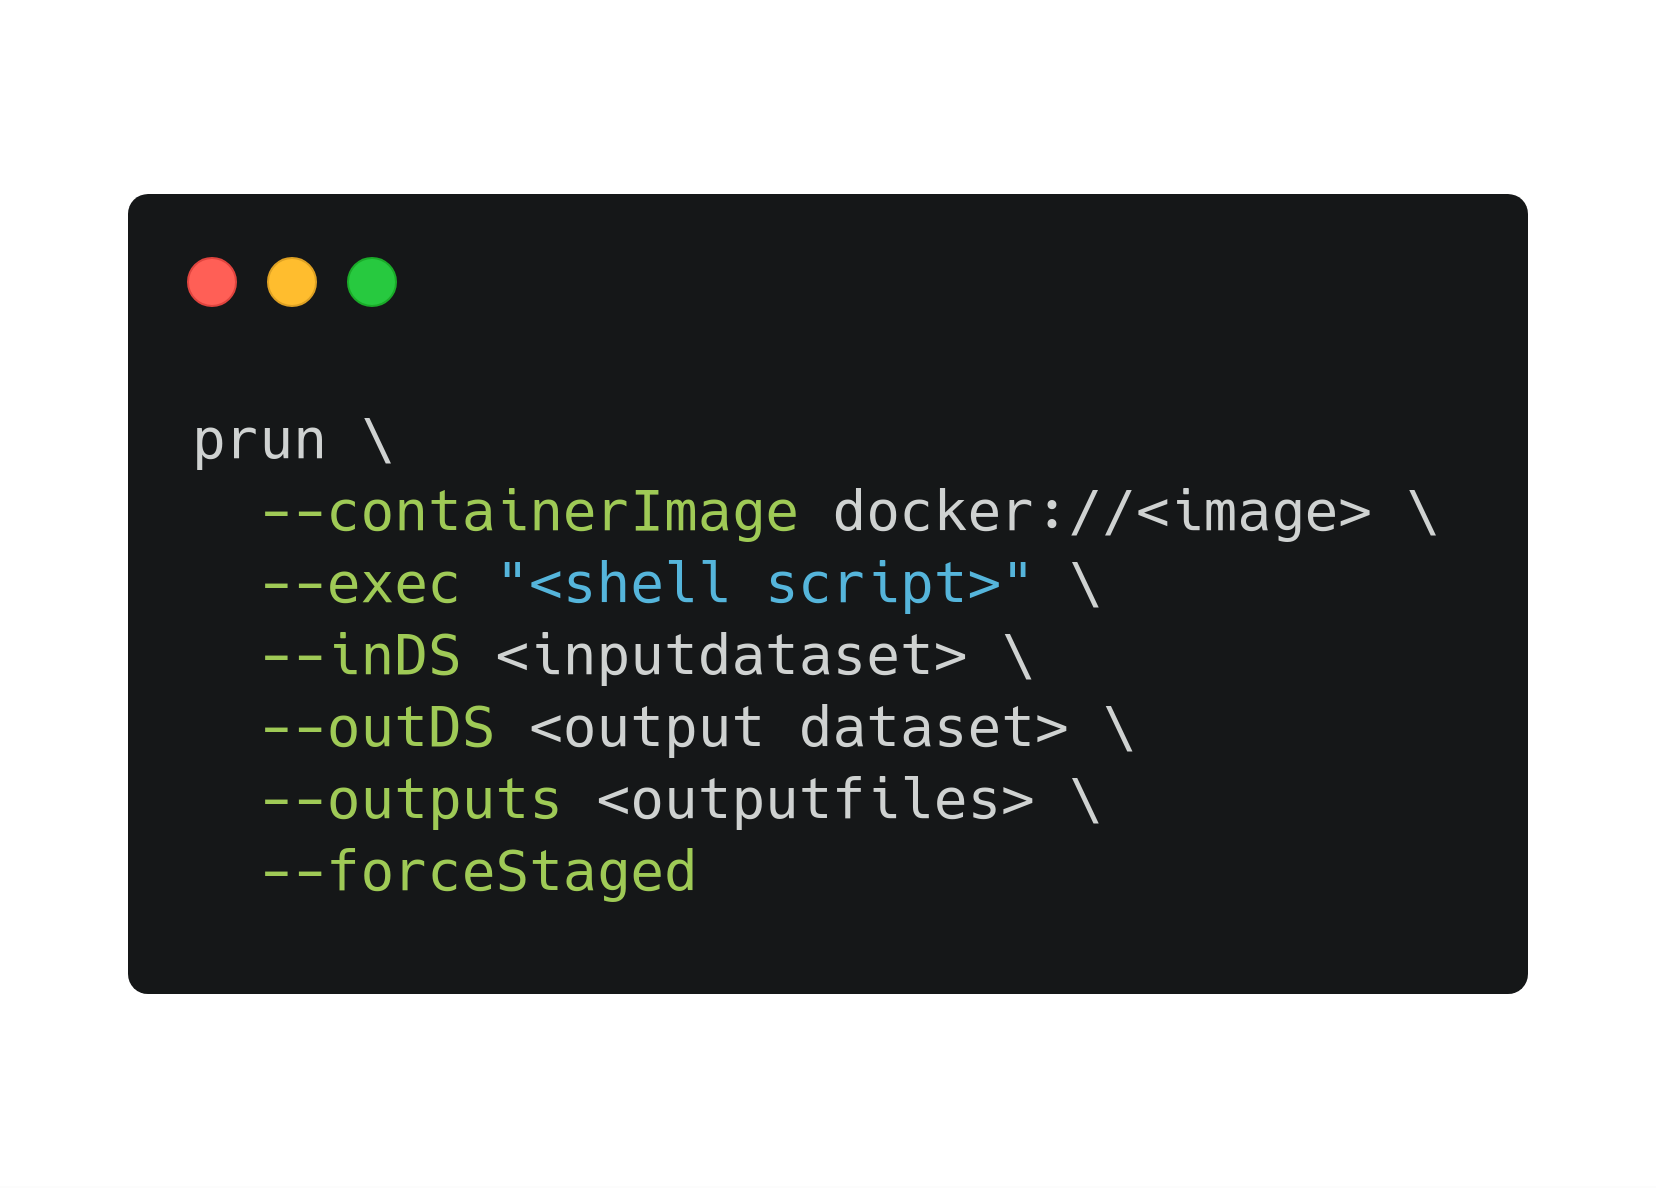
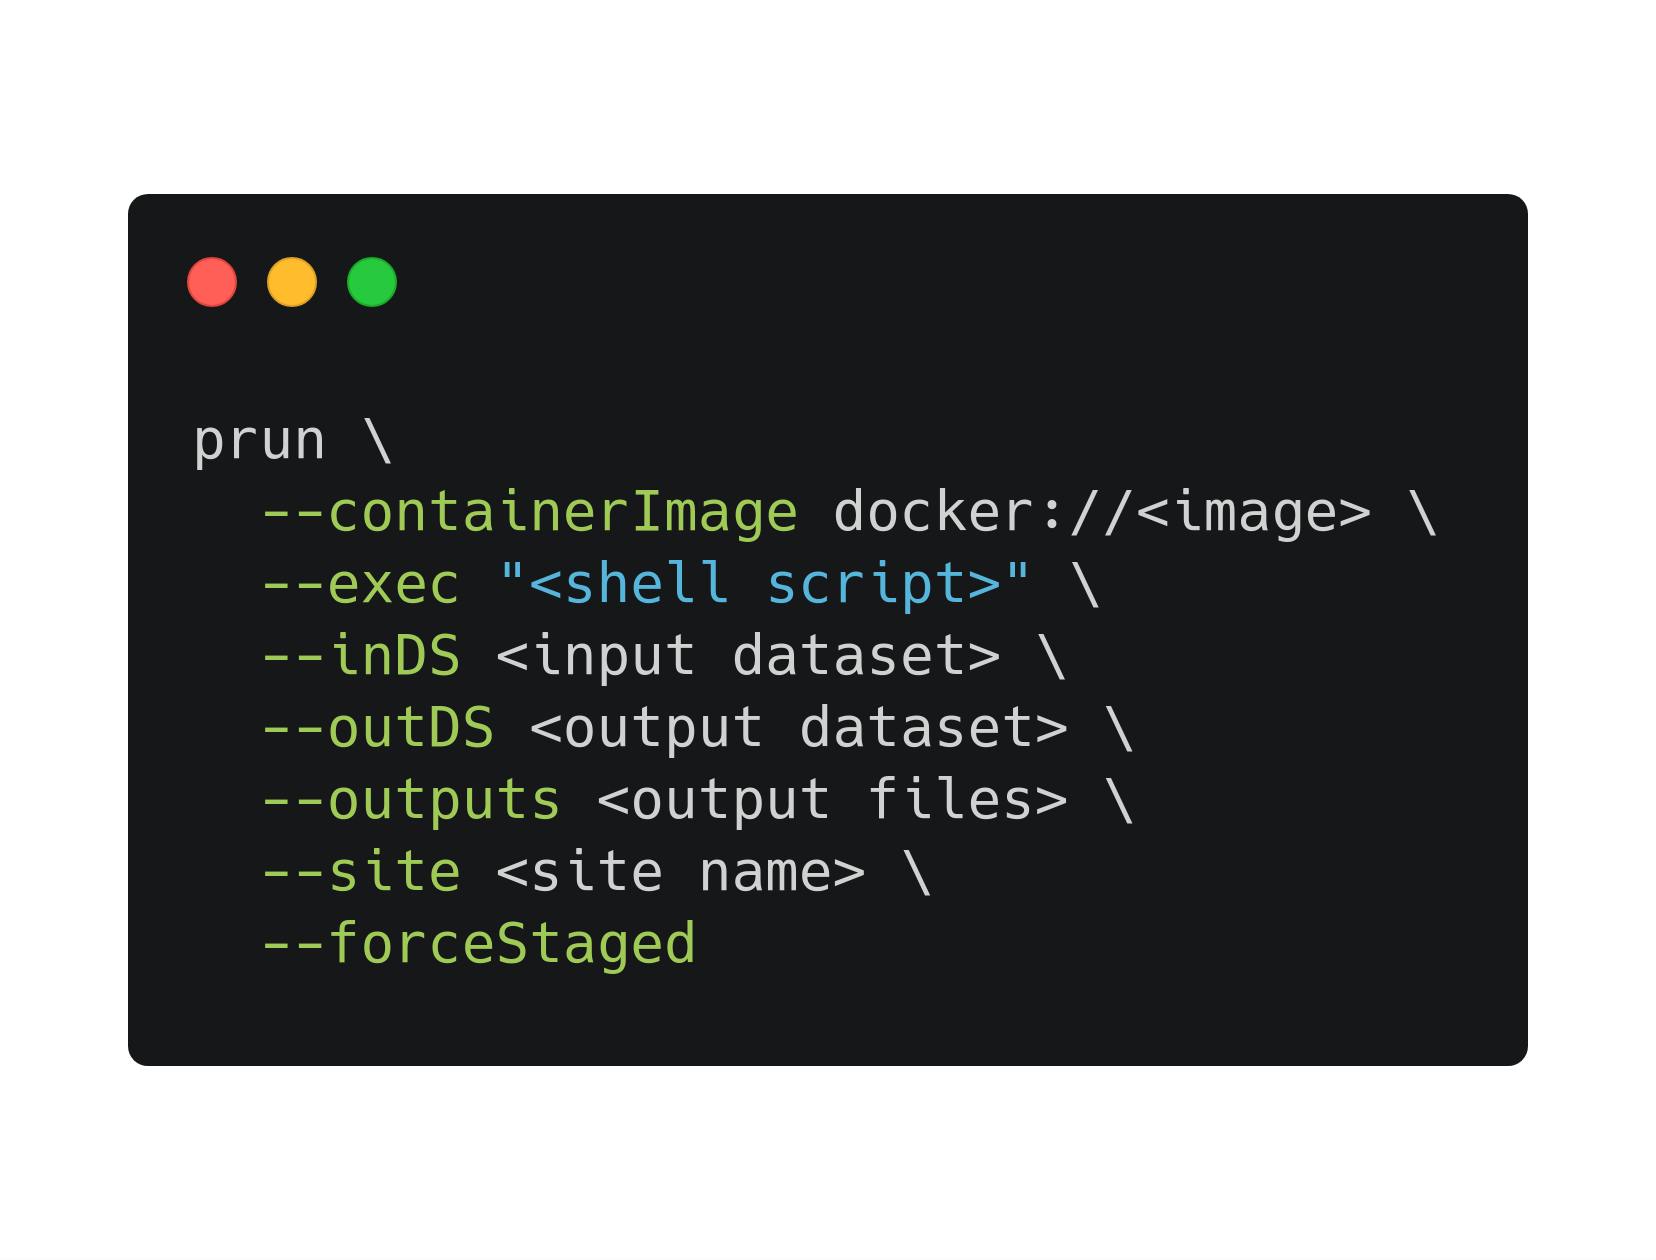
Update draft for presentation (#5)
* Revise draft for talk
* Add pcontainer CLI image
* Add empty unicode characters for spacing
* Add proper scaling of collaborators

diff --git a/talk.md b/talk.md
@@ -11,7 +11,7 @@ Matthew Feickert<br>
 
 April 16th, 2019
 
----
+<!-- ---
 # Talk Notes for Lukas and Dan
 
 <br><br>
@@ -23,29 +23,23 @@ April 16th, 2019
 - Talk Goals:
    - Motivate and introduce applications of containers on GRID for ML
    - 1st half: Lukas et.al work in Containers + GRID
-   - 2nd half: Matthew and Dan work on AML base images
+   - 2nd half: Matthew and Dan work on AML base images -->
 
 ---
 # Collaborators
 
-<br><br>
-
 .grid[
 .kol-1-2.center[
 <!-- .circle.width-80[![Lukas](https://avatars1.githubusercontent.com/u/2318083?s=400&v=4)] -->
-.center.circle.width-80[![Lukas](figures/collaborators/heinrich.jpg)]
+.center.circle.width-100[![Lukas](figures/collaborators/heinrich.jpg)]
 
 [Lukas Heinrich](https://github.com/lukasheinrich)
 
-NYU
+CERN
 ]
-
 <!-- https://www.weizmann.ac.il/conferences/SRitp/Summer2017/sites/conferences.SRitp.Summer2017/files/styles/gallery_full_image/public/dsc07727.jpg?itok=Z6VbTmy9 -->
 .kol-1-2.center[
-.center.circle.width-70[![Dan](figures/collaborators/guest.png)]
-<!-- .circle.width-80[![Dan](https://avatars3.githubusercontent.com/u/1979581?s=400&v=4)] -->
-<!-- .center.circle.width-80[![Dan](figures/collaborators/guest_2.png)] -->
-<!-- .center.circle.width-70[![Dan](figures/collaborators/guest_3.png)] -->
+.center.circle.width-90[![Dan](figures/collaborators/guest.png)]
 
 [Dan Guest](https://github.com/dguest)
 
@@ -64,7 +58,7 @@ UC Irvine
 <br>
 - Highly parallelizable
 - Good for distributed, bulk computation
-- Worldwide LHC Computing Grid provides global infrastructure
+- Worldwide LHC Computing Grid (GRID) provides global infrastructure
    - Storage and compute
    - _Code goes to where the data is_
 ]
@@ -79,34 +73,32 @@ UC Irvine
 # Problem: Software Distribution
 
 - Need to get the _runtime environment_ to data location
-- Breakdown of typical software stack  
 
-.width-100[![software_stack](figures/software_stack.png)]
+.center.width-100[![software_stack](figures/software_stack.png)]
 
 - Relies on three parties to work (sys admins, experiments, users)
 - Great for distributing crucial software, not for experimenting with new tools
+- User only controls their code, upstream changes break reproducibility
 
 ---
 # Containers
 .grid[
 .kol-2-3[
-<br>
-- ML needs are challenge for current system
+<!-- <br> -->
+- _Machine Learning_ needs are challenge for current system
    - moves fast
    - experiments with bleeding edge tools
    - non-traditional HEP stack developed by industry
-- Idea: Distribute software stack with .blue[containers]
+- Idea: Distribute software stack with _containers_
    - let the user assemble the full stack and optimize GRID for running containers
+   - Host can be greatly simplified to core OS to run containers
 ]
 .kol-1-3.center[
 .center.width-50[![Docker](https://www.linuxjournal.com/sites/default/files/styles/max_650x650/public/u%5Buid%5D/12282f3.png)]
-<!-- .width-40[![Tensorflow](figures/logos/Tensorflow_logo.svg)] -->
 
 .center.width-50[![Singularity](https://singularity.lbl.gov/images/logo/logo.svg)]
-<!-- .width-100[![PyTorch](figures/logos/pytorch-logo-dark.svg)] -->
 ]
 ]
-
 .center.width-100[![container_view](figures/container_view.png)]
 .center[Docker Image (think: executable filesystem snapshot)]
 
@@ -117,53 +109,47 @@ UC Irvine
 - ML applications currently one area that can realistically and usefully utilize hardware accelerators (GPUs)
 - New HPC machines coming online ability to support HEP workloads
 - Use of GPU requires _custom compiled software_
-   - Example. TensorFlow GPU with CUDA
+   - Example: TensorFlow GPU with CUDA
 - With containers this is plug and play compute!
 
 .center.width-100[![container_with_GPU](figures/container_with_GPU.png)]
 
 ---
-# Containers for Physics
+# Containers for HEPML
 
-.grid[
-.kol-1-2[
 - With containers can run large-scale jobs on WLCG infrastructure
    - hyperparameter scans
    - flavour tagging retraining
 
-<br>
-
+.grid[
+.kol-2-3[
 .center.width-100[![hyperparameter_ROC](figures/hyperparameter_ROC.png)]
-.left[Flavour taggigng ROC for hyperpameter scans [[A. C. Forti, L. Heinrich, M. Guth, ACAT 2019](https://cds.cern.ch/record/2665661?ln=en)]]
+.left[Flavour tagging ROC for hyperpameter scans <br>[[A. C. Forti, L. Heinrich, M. Guth, ACAT 2019](https://cds.cern.ch/record/2665661?ln=en)]]
 ]
-.kol-1-2[
-.center.width-90[![Lukas_tweet](figures/Lukas_tweet.png)]
-.center[[@lukasheinrich_](https://twitter.com/lukasheinrich_/status/1066055036197892098/photo/1)]
+.kol-1-3[
+.center.width-110[[![Lukas_tweet](figures/Lukas_tweet.png)](https://twitter.com/lukasheinrich_/status/1066055036197892098/photo/1)]
 ]
 ]
 
 ---
-# Containers for Physics
+# Containers for HEPML
 
 <br>
 
 .center.width-100[![btagging_GRID_job](figures/btagging_GRID_job.jpg)]
-.center[Flavour tagging hyperpameters scans on the GRID in container]
-
+.center[Flavour tagging hyperpameters scans on the GRID with containers]
 <br>
-
 .center.width-90[![btagging_prun_command](figures/btagging_prun_command.jpg)]
 .center[Submitted to GPU site at Manchester]
 
 <!-- https://indico.cern.ch/event/708041/contributions/3276174/attachments/1810633/2956920/ATL-SOFT-SLIDE-2019-073.pdf#page=13 -->
-<!-- https://carbon.now.sh/?bg=rgba(255%2C255%2C255%2C1)&t=seti&wt=none&l=application%2Fx-sh&ds=false&dsyoff=20px&dsblur=68px&wc=true&wa=true&pv=48px&ph=32px&ln=false&fm=Hack&fs=14px&lh=133%25&si=false&code=prun%2520%255C%250A%2520%2520--containerImage%2520docker%253A%252F%252F%253Cimage%253E%2520%255C%250A%2520%2520--exec%2520%2522%253Cshell%2520script%253E%2522%2520%255C%250A%2520%2520--inDS%2520%253Cinputdataset%253E%2520%255C%250A%2520%2520--outDS%2520%253Coutput%2520dataset%253E%2520%255C%250A%2520%2520--outputs%2520%253Coutputfiles%253E%2520%255C%250A%2520%2520--forceStaged&es=4x&wm=false -->
+<!-- https://carbon.now.sh/?bg=rgba(255%2C255%2C255%2C1)&t=seti&wt=none&l=application%2Fx-sh&ds=false&dsyoff=20px&dsblur=68px&wc=true&wa=true&pv=48px&ph=32px&ln=false&fm=Hack&fs=14px&lh=133%25&si=false&es=4x&wm=false&code=prun%2520%255C%250A%2520%2520--containerImage%2520docker%253A%252F%252F%253Cimage%253E%2520%255C%250A%2520%2520--exec%2520%2522%253Cshell%2520script%253E%2522%2520%255C%250A%2520%2520--inDS%2520%253Cinput%2520dataset%253E%2520%255C%250A%2520%2520--outDS%2520%253Coutput%2520dataset%253E%2520%255C%250A%2520%2520--outputs%2520%253Coutput%2520files%253E%2520%255C%250A%2520%2520--site%2520%253Csite%2520name%253E%2520%255C%250A%2520%2520--forceStaged -->
 ---
 # User Interface
 
 Integrated into main command line interface for GRID submission (PanDA):
 .center.width-80[![user_interface](figures/carbon_user_interface.png)]
-
-Future: dedicated _pcontainer_ CLI (drop all software related flags)
+In development/testing: dedicated _pcontainer_ CLI (drop all software related flags)
 
 ---
 # Machine Learning Base Images
@@ -175,18 +161,17 @@ Future: dedicated _pcontainer_ CLI (drop all software related flags)
 .center.width-100[![ML_Docker](figures/ML_Docker.jpg)]
 ]
 .kol-2-3[
-- ML base images
+- [ML base images](https://hub.docker.com/r/atlasml/ml-base)
    - OS flavors
       - Ubutnu 18.04
       - CentOS 7
-   - Goal: To provide _modern Pythonic_ machine learning _stack, tools, environment_
-- ATLAS ML base images
+   - Goal: To provide _modern Pythonic_ machine learning stack, tools, environment
+- [ATLAS ML base images](https://hub.docker.com/r/atlasml/atlasml-base)
    - Copying ATLAS Software Infrastructure Team to make stack of images
       - ATLAS OS (CentOS 7)
       - AnalysisBase (CentOS 7)
       - ATLAS ML base (CentOS 7)
    - Goal: Provide AnalysisBase and ATLAS tools along _with ML base_
-<!-- - _Singularity compatible_ mount points for _GRID_ -->
 ]
 ]
 - _Singularity compatible_ mount points for _GRID_
@@ -197,15 +182,15 @@ Future: dedicated _pcontainer_ CLI (drop all software related flags)
 
 .grid[
 .kol-1-2.center[
-.center.width-100[![AML_docker_repo](figures/AML_docker_repo.png)]
+.center.width-100[[![AML_docker_repo](figures/AML_docker_repo.png)](https://gitlab.cern.ch/aml/containers/docker)]
 .center[[Dockerfiles versioned on GitLab](https://gitlab.cern.ch/aml/containers/docker)...]
 ]
 .kol-1-2.center[
-.center.width-80[![AML_DockerHub](figures/AML_DockerHub.png)]
+.center.width-80[[![AML_DockerHub](figures/AML_DockerHub.png)](https://hub.docker.com/u/atlasml)]
 .center[...and [deployed to Docker Hub](https://hub.docker.com/u/atlasml)]
 ]
 ]
-.center.width-50[![CI_pipeline](figures/CI_pipeline.png)]
+.center.width-40[[![CI_pipeline](figures/CI_pipeline.png)](https://gitlab.cern.ch/aml/containers/docker/pipelines)]
 .center[...[built by CI](https://gitlab.cern.ch/aml/containers/docker/pipelines)...]
 
 <!-- ---
@@ -230,19 +215,21 @@ Future: dedicated _pcontainer_ CLI (drop all software related flags)
 
 ---
 # Supports Interactive Sessions
-.center.width-80[![jupyter_example](figures/jupyter_example.png)]
+.center.width-80[[![jupyter_example](figures/jupyter_example.png)](https://gitlab.cern.ch/aml/containers/docker#run-a-jupyter-server-and-train-a-nn-with-tensorflow)]
 
 ---
-# Upcoming: GPU optimized images
+# Upcoming: optimized images
 
 .grid[
 .kol-1-2[
-<br><br>
-<br><br>
+## GPU
 - Images with CUDA/cuDNN support for GPU acceleration
 - GPU support for TensorFlow and PyTorch
+
+## Size
 - Slimmed and specialized base images for size optimization
    - Example: Don't distribute Jupyter if only want to train models on GRID
+- In some cases can experiment with Alpine images to drop MBs of size
 ]
 .kol-1-2[
 .center.width-80[![CUDA_logo](figures/CUDA_logo.jpg)]
@@ -260,7 +247,7 @@ Future: dedicated _pcontainer_ CLI (drop all software related flags)
 - Containers allow for _local_ and _production_ to be the _same_ environment
 - _GRID submission CLI_ of jobs with containers live now
 - GRID + containers allows for unique workflows _at scale_ and _efficient use_ of GPU site resources
-- ATLAS Machine Learning Forum provides ML base images openly distributed on Docker Hub
+- ATLAS Machine Learning Forum provides _ML base images_ openly distributed on Docker Hub
    - Part of CVMFS sync, so on CVMFS now
    - Contributions welcome on [GitLab](https://gitlab.cern.ch/aml/containers/docker)
 
@@ -281,25 +268,69 @@ class: end-slide, center
 Backup
 
 ---
-# Can I use these on the GRID?
+# How many WLCG sites support GPUs for hardware acceleration?
 
 <br>
 
-- Yes
+- At the moment 2
+   - Manchester
+   - DESY
+- Looking to get more online soon given the results from collaboration between Lukas Heinrich (CERN) and Alessandra Forti (University of Manchester)!
 
 ---
-# Can I use these to make my own images?
+# Do the images work on the WLCG?
+
+- Yes! They can be used through Singularity as Lukas has shown for a few sites
+- Checkout the `pcontainer` API
+
+.center.width-60[![pcontainer_CLI](figures/pcontainer_CLI.png)]
+
+---
+# Does the WLCG support other container runtimes than Singularity?
 
 <br>
 
-- Yes
+- At time of this talk only Singularity is supported at most sites
+- Active work to support other container runtimes (e.g., Docker (rootless), Podman)
+
+---
+# Can I use these base images to make my own images?
+
+- Yes! That's the idea. :)
+- Here's a minimal working example:
+   - Write `Dockerfile`
+```
+FROM atlasml/ml-base:py-3.6.8
+USER root
+RUN pip3 install --no-cache-dir xgboost
+USER atlas
+```
+   - Build and tag image
+```
+docker build -f Dockerfile -t xgboost-example --compress .
+```
+   - Run container
+```
+docker run --rm xgboost-example \
+   python3 -c "import xgboost, uproot; print(xgboost, uproot)"
+```
+<!-- The above (python3) line contains empty unicode character and is not plaintext -->
+
+---
+# Do these base images work on LXPLUS?
+
+<br>
+
+- Yes! You can use Singularity to run the Docker images as Singularity containers
+- See the documentation for examples: [Running on LXPLUS with Singularity](https://gitlab.cern.ch/aml/containers/docker#running-on-lxplus-with-singularity)
 
 ---
 # References
 
-1. L. Heinrich, .italic[[Continuous Analysis in ATLAS: Running User-Defined Container Images on the Grid](https://indico.cern.ch/event/708041/contributions/3276174/)], ACAT 2019, March 10, 2019
+1. L. Heinrich, .italic[[Continuous Analysis in ATLAS: Running User-Defined Container Images on the Grid](https://indico.cern.ch/event/708041/contributions/3276174/)], ACAT 2019, March 12, 2019
 2. L. Heinrich, .italic[[Docker On the Grid](https://indico.cern.ch/event/791372/contributions/3286861/)], ATLAS Machine Learning Forum, January 23, 2019
 3. A. C. Forti, L. Heinrich, M. Guth, .italic[[Hardware Accelerated ATLAS Workloads on the WLCG](https://cds.cern.ch/record/2665661?ln=en)], ACAT 2019, March 11, 2019
+4. M. Feickert, .italic[[Base Images for Machine Learning](https://indico.cern.ch/event/791372/contributions/3286864/)], ATLAS Machine Learning Forum, January 23, 2019
 
 ---
 
